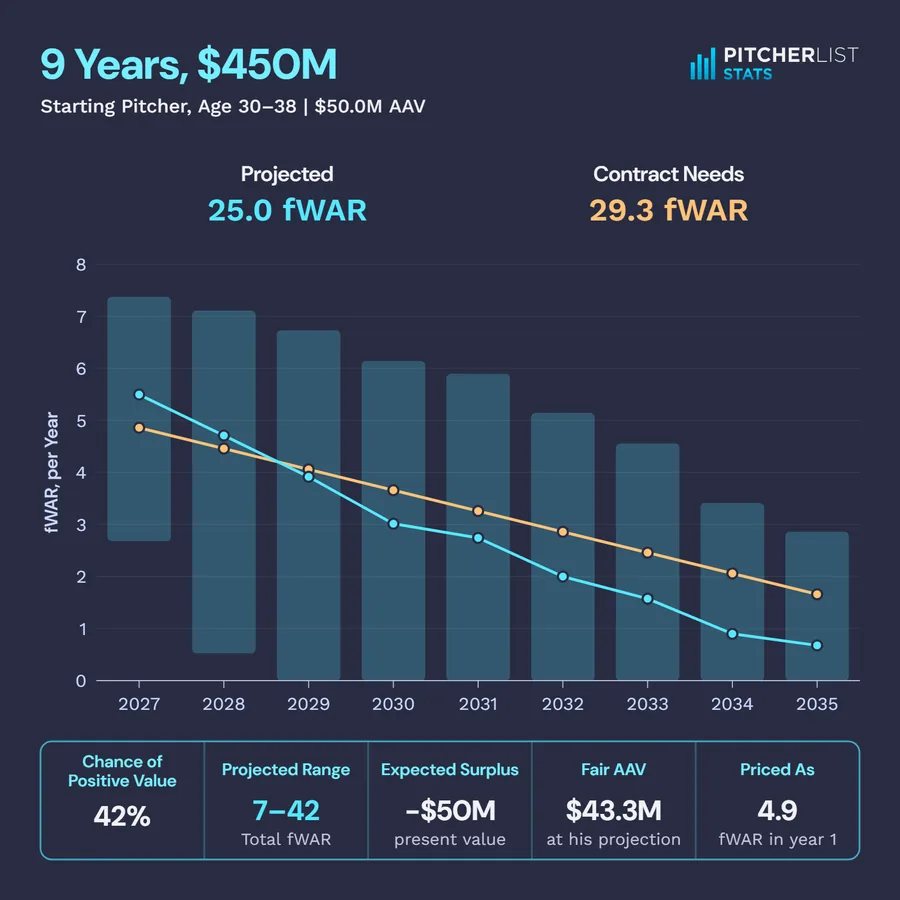
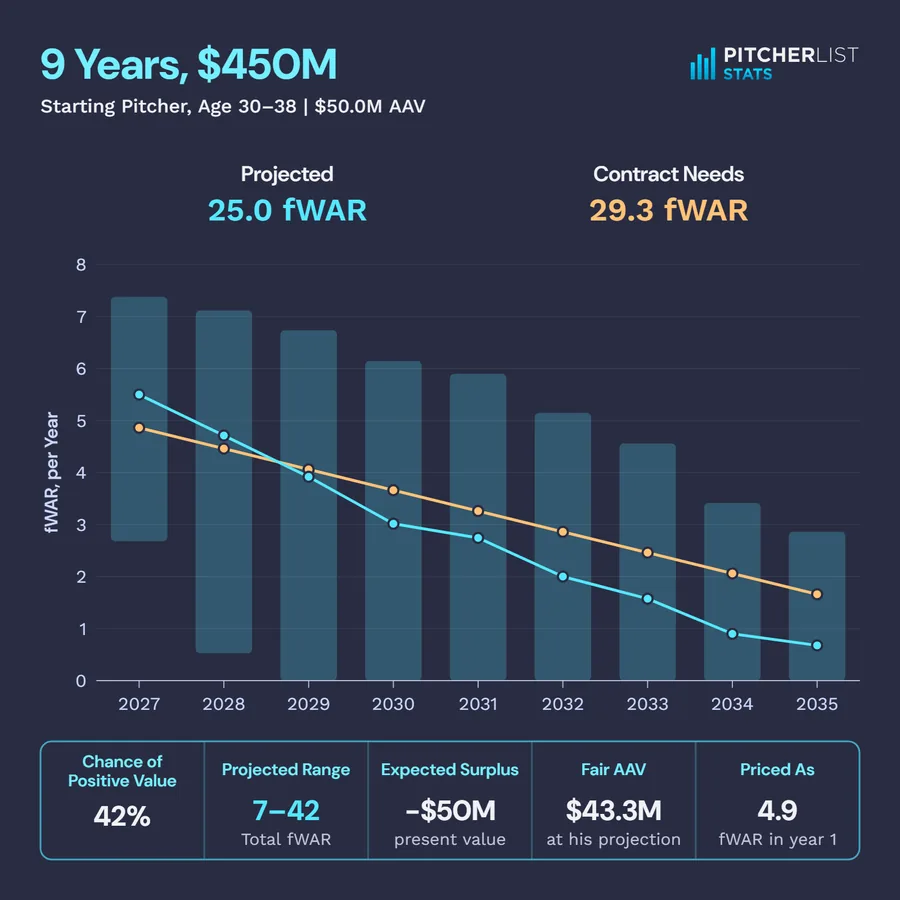
Homepage: regrab the Contract vs. Projection tile (range bars at 2/3, #397)

diff --git a/index.html b/index.html
@@ -313,7 +313,7 @@
 								</article>
 									<article class="style6">
 									<span class="image">
-										<img src="images/tile-contract-eval.webp?v=6" srcset="images/tile-contract-eval-720.webp?v=6 720w, images/tile-contract-eval.webp?v=6 900w" sizes="(max-width: 480px) 100vw, (max-width: 980px) 50vw, 380px" width="900" height="900" alt="A 9-year, $450M contract for a 30-year-old starting pitcher: projected fWAR by season against the fWAR the deal pays for, 25.0 to 29.3" />
+										<img src="images/tile-contract-eval.webp?v=7" srcset="images/tile-contract-eval-720.webp?v=7 720w, images/tile-contract-eval.webp?v=7 900w" sizes="(max-width: 480px) 100vw, (max-width: 980px) 50vw, 380px" width="900" height="900" alt="A 9-year, $450M contract for a 30-year-old starting pitcher: projected fWAR by season against the fWAR the deal pays for, 25.0 to 29.3" />
 									</span>
 									<a href="/contract-eval/">
 										<h2>Contract vs. Projection</h2>
